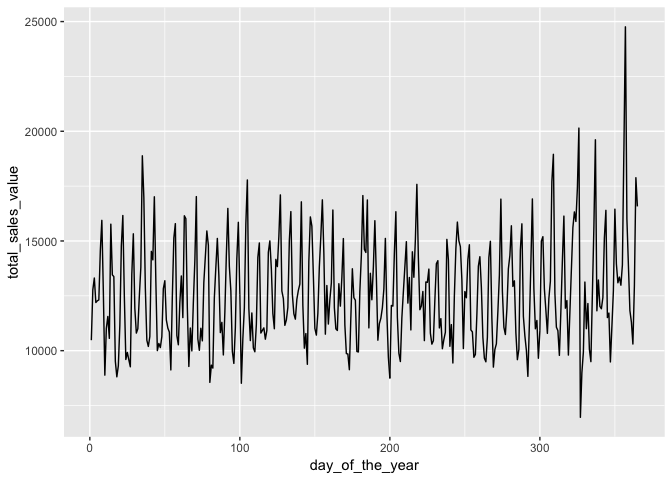
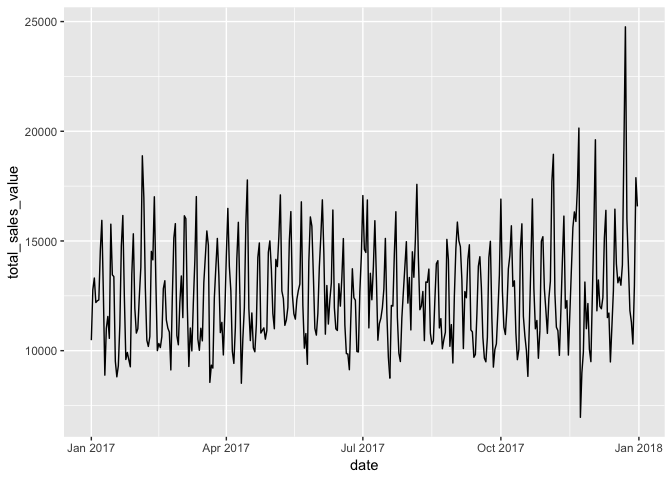
update the data viz exercises and solutions

diff --git a/solutions/02-data-visualization-solutions.md b/solutions/02-data-visualization-solutions.md
@@ -11,9 +11,9 @@ library(lubridate) # see chapter 16 of r4ds
 
 ------------------------------------------------------------------------
 
-**Question 1**: Create a histogram of `quantity`. What, if anything, do you find unusual about this visualization?
+**Question 1**: Explore the distribution of `quantity`. What, if anything, do you find unusual about this visualization?
 
-We designed this question to strengthen your ability to use `geom_histogram()`.
+We designed this question to strengthen your ability to visualize the distribution of a continuous variable with the `geom_histogram()` function.
 
 ``` r
 ggplot(data = transactions) + 
@@ -23,45 +23,56 @@ ggplot(data = transactions) +
 ![](02-data-visualization-solutions_files/figure-markdown_github/unnamed-chunk-1-1.png)
 
 ``` r
-# The unusual aspect of the histogram is its extremely long tail. The distance
-# is so far that the histogram almost appears to be a single bar. This
+# The unusual aspect of the bar chart is its extremely long tail. The distance
+# is so far that the bar chart almost appears to be a single bar at zero. This
 # distortion warrants additional steps (e.g., `filter(quantity <= 10)`).
+
+ggplot(data = transactions %>% filter(quantity <= 10)) + 
+  geom_histogram(mapping = aes(x = quantity))
 ```
+
+![](02-data-visualization-solutions_files/figure-markdown_github/unnamed-chunk-1-2.png)
 
 ------------------------------------------------------------------------
 
-**Question 2**: Use a line graph to plot total sales value by day of the year. What, if anything, do you find unusual about this visualization?
+**Question 2**: Use a line graph to plot total sales value by date. What, if anything, do you find unusual about this visualization?
 
 We designed this question to strengthen your ability to use dplyr verbs in combination with `geom_line()`.
 
-**Hint**: Get the day of the year from the `transaction_timestamp` variable in the `transactions` dataset with the [`yday()`](https://r4ds.had.co.nz/dates-and-times.html#date-time-components) function of the lubridate package.
+You can get dates from the `transaction_timestamp` variable in the `transactions` dataset with the `date()` function of the lubridate package. If you are interested, you can see some examples of other accessor functions in the lubridate package [here](https://r4ds.had.co.nz/dates-and-times.html#date-time-components).
 
 ``` r
 transactions %>% 
-  mutate(day_of_the_year = yday(transaction_timestamp)) %>% 
-  group_by(day_of_the_year) %>% 
+  mutate(date = date(transaction_timestamp)) %>% 
+  group_by(date) %>% 
   summarize(total_sales_value = sum(sales_value, na.rm = TRUE)) %>%
   ggplot() + 
-  geom_line(mapping = aes(x = day_of_the_year, y = total_sales_value))
+  geom_line(mapping = aes(x = date, y = total_sales_value))
 ```
 
 ![](02-data-visualization-solutions_files/figure-markdown_github/unnamed-chunk-2-1.png)
 
 ``` r
-# The most extreme days of the year are day numbers 327 and 357, which translate
-# to November 23 and December 23, respectively. Sales on November 23 were likely
-# very low due to it being Black Friday, and sales on December 23 were likely
-# very high due to it being Christmas Eve.
+# The most extreme days of the year were November 23 and December 23,
+# respectively. Sales on November 23 were likely very low due to it being Black
+# Friday, and sales on December 23 were likely very high due to it being
+# Christmas Eve.
 ```
 
 ------------------------------------------------------------------------
 
-**Question 3**: Use a bar graph to compare the total sales value of national brands with that of private-label brands using the `brand` variable in the `products` dataset.
+**Question 3**: Use a bar chart to compare the total sales value of national brands with that of private-label brands using the `brand` variable in the `products` dataset.
 
-**Hint**: Because `transactions` does not contain product metadata, run the code below to create a new dataset with additional product information in it. Then, use `transactions_products` for your answer.
+Because `transactions` does not contain product metadata, you will need to create a new dataset with product information in it. Consider running the code below for this purpose and using `transactions_products` for your answer.
 
 ``` r
-transactions_products <- left_join(transactions, products, by = 'product_id')
+transactions_products <- left_join(
+  transactions, 
+  products, 
+  by = "product_id"
+) %>% 
+  mutate(brand  = fct_explicit_na(brand)) %>% 
+  filter(brand != "(Missing)")
 ```
 
 We designed this question to strengthen your ability to use dplyr verbs in combination with `geom_bar()` and its `stat` argument (see [here](https://r4ds.had.co.nz/data-visualisation.html#statistical-transformations)).
@@ -70,43 +81,38 @@ We designed this question to strengthen your ability to use dplyr verbs in combi
 transactions_products %>%
   group_by(brand) %>%
   summarize(total_sales_value = sum(sales_value)) %>%
-  ggplot() + 
-  geom_bar(
-    mapping = aes(x = brand, y = total_sales_value), 
-    stat = "identity"
-  )
+  ggplot(mapping = aes(x = brand, y = total_sales_value)) + 
+  geom_bar(stat = "identity")
 ```
 
 ![](02-data-visualization-solutions_files/figure-markdown_github/unnamed-chunk-4-1.png)
 
 ------------------------------------------------------------------------
 
-**Question 4**: Building on Question 3, suppose you want to understand whether the retailer's customers' preference for national brands (compared to private-label brands) is stronger in the soft drink category than it is in the cheese category. Examine this supposition by using a stacked bar graph to compare the split between national and private-label brands for soft drinks and cheeses.
+**Question 4**: Building on Question 3, suppose you want to understand whether the retailer's customers' preference for national brands (compared to private-label brands) is stronger in the soft drink category than it is in the cheese category. Examine this supposition by using a stacked bar chart to compare the split between national and private-label brands for soft drinks and cheeses.
 
 **Hint**: Follow these three steps to create your plot:
 
 -   Filter `transactions_products` to include only transactions with `product_category` equal to "SOFT DRINKS" or "CHEESE"
 -   Calculate total sales value by `product_category` and `brand`
--   Create the bars using `geom_bar()` with `stat = 'identity'` and `position =  'fill'`
+-   Create the bars using [`geom_col()`](https://jrnold.github.io/r4ds-exercise-solutions/data-visualisation.html#exercise-3.7.2) with `position = 'fill'`
 
 ``` r
 transactions_products %>%
   filter(product_category %in% c("SOFT DRINKS", "CHEESE")) %>%
   group_by(product_category, brand) %>%
   summarize(total_sales_value = sum(sales_value)) %>%
-  ggplot() + 
-  geom_bar(
-    mapping  = aes(x = product_category, y = total_sales_value, fill = brand), 
-    stat     = "identity", 
-    position = "fill"
-  )
+  ggplot(
+    mapping  = aes(x = product_category, y = total_sales_value, fill = brand)
+  ) + 
+  geom_col(position = "fill")
 ```
 
 ![](02-data-visualization-solutions_files/figure-markdown_github/unnamed-chunk-5-1.png)
 
 ------------------------------------------------------------------------
 
-**Question 5**: Filter `transactions_products` for transactions in the peanut better, jelly, and jams product category (i.e., `"PNT BTR/JELLY/JAMS"`). Then, create a bar graph to visualize the distribution of the retailer's PB&J transactions by package size. Which two package sizes are the most popular?
+**Question 5**: Filter `transactions_products` for transactions in the peanut better, jelly, and jams product category (i.e., `"PNT BTR/JELLY/JAMS"`). Then, create a bar chart to visualize the distribution of the retailer's PB&J transactions by package size. Which two package sizes are the most popular?
 
 ``` r
 transactions_products %>% 

diff --git a/exercises/02-data-visualization-exercises.md b/exercises/02-data-visualization-exercises.md
@@ -11,40 +11,46 @@ library(lubridate) # see chapter 16 of r4ds
 
 ------------------------------------------------------------------------
 
-**Question 1**: Create a histogram of `quantity`. What, if anything, do you find unusual about this visualization?
+**Question 1**: Explore the distribution of `quantity`. What, if anything, do you find unusual about this visualization?
 
-We designed this question to strengthen your ability to use `geom_histogram()`.
+We designed this question to strengthen your ability to visualize the distribution of a continuous variable with the `geom_histogram()` function.
 
 ------------------------------------------------------------------------
 
-**Question 2**: Use a line graph to plot total sales value by day of the year. What, if anything, do you find unusual about this visualization?
+**Question 2**: Use a line graph to plot total sales value by date. What, if anything, do you find unusual about this visualization?
 
 We designed this question to strengthen your ability to use dplyr verbs in combination with `geom_line()`.
 
-**Hint**: Get the day of the year from the `transaction_timestamp` variable in the `transactions` dataset with the [`yday()`](https://r4ds.had.co.nz/dates-and-times.html#date-time-components) function of the lubridate package.
+You can get dates from the `transaction_timestamp` variable in the `transactions` dataset with the `date()` function of the lubridate package. If you are interested, you can see some examples of other accessor functions in the lubridate package [here](https://r4ds.had.co.nz/dates-and-times.html#date-time-components).
 
 ------------------------------------------------------------------------
 
-**Question 3**: Use a bar graph to compare the total sales value of national brands with that of private-label brands using the `brand` variable in the `products` dataset.
+**Question 3**: Use a bar chart to compare the total sales value of national brands with that of private-label brands using the `brand` variable in the `products` dataset.
 
-**Hint**: Because `transactions` does not contain product metadata, run the code below to create a new dataset with additional product information in it. Then, use `transactions_products` for your answer.
+Because `transactions` does not contain product metadata, you will need to create a new dataset with product information in it. Consider running the code below for this purpose and using `transactions_products` for your answer.
 
 ``` r
-transactions_products <- left_join(transactions, products, by = 'product_id')
+transactions_products <- left_join(
+  transactions, 
+  products, 
+  by = "product_id"
+) %>% 
+  mutate(brand  = fct_explicit_na(brand)) %>% 
+  filter(brand != "(Missing)")
 ```
 
 We designed this question to strengthen your ability to use dplyr verbs in combination with `geom_bar()` and its `stat` argument (see [here](https://r4ds.had.co.nz/data-visualisation.html#statistical-transformations)).
 
 ------------------------------------------------------------------------
 
-**Question 4**: Building on Question 3, suppose you want to understand whether the retailer's customers' preference for national brands (compared to private-label brands) is stronger in the soft drink category than it is in the cheese category. Examine this supposition by using a stacked bar graph to compare the split between national and private-label brands for soft drinks and cheeses.
+**Question 4**: Building on Question 3, suppose you want to understand whether the retailer's customers' preference for national brands (compared to private-label brands) is stronger in the soft drink category than it is in the cheese category. Examine this supposition by using a stacked bar chart to compare the split between national and private-label brands for soft drinks and cheeses.
 
 **Hint**: Follow these three steps to create your plot:
 
 -   Filter `transactions_products` to include only transactions with `product_category` equal to "SOFT DRINKS" or "CHEESE"
 -   Calculate total sales value by `product_category` and `brand`
--   Create the bars using `geom_bar()` with `stat = 'identity'` and `position =  'fill'`
+-   Create the bars using [`geom_col()`](https://jrnold.github.io/r4ds-exercise-solutions/data-visualisation.html#exercise-3.7.2) with `position = 'fill'`
 
 ------------------------------------------------------------------------
 
-**Question 5**: Filter `transactions_products` for transactions in the peanut better, jelly, and jams product category (i.e., `"PNT BTR/JELLY/JAMS"`). Then, create a bar graph to visualize the distribution of the retailer's PB&J transactions by package size. Which two package sizes are the most popular?
+**Question 5**: Filter `transactions_products` for transactions in the peanut better, jelly, and jams product category (i.e., `"PNT BTR/JELLY/JAMS"`). Then, create a bar chart to visualize the distribution of the retailer's PB&J transactions by package size. Which two package sizes are the most popular?
